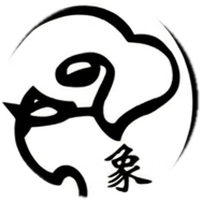
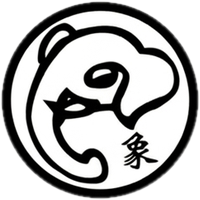
Fix overcropped borders: use full boundary scan, no cell clamping

diff --git a/cut_pieces.py b/cut_pieces.py
@@ -1,19 +1,23 @@
 #!/usr/bin/env python3
 """
-Cut pieces from pieces.png into 200x200 individual PNGs.
+Cut pieces from pieces.png into 200×200 individual PNGs.
 
 Strategy:
-  Each sprite occupies a 256x256 cell but the circle border often extends
-  past the cell edge into neighbouring cells.  We fit the circle using only
-  the arc pixels that are safely inside the cell (>= EDGE_SAFE pixels from
-  each potentially-clipped edge), then sample the full image with an extended
-  window to get the complete bitmap.
+  For each 256×256 sprite cell, scan the outermost dark pixel in every row
+  and column (left / right / top / bottom boundary), fit a circle to those
+  boundary points, then scale and crop so the circle fills the output and
+  apply a circular alpha mask.
+
+  Extraction is taken from the full source image (not clamped to the cell)
+  so that arcs which marginally spill past the cell edge are included.
+  The circular alpha mask then cleanly hides any neighbouring-sprite pixels
+  that fall outside our fitted circle radius.
 
 Layout (4 cols × 4 rows, 256 px each):
-  row 0: red   — elephant, lion, tiger, leopard
-  row 1: red   — wolf, dog, cat, rat
-  row 2: black — elephant, lion, tiger, leopard
-  row 3: black — wolf, dog, cat, rat
+  row 0: red   — elephant, tiger, cat,  wolf
+  row 1: red   — dog,      rat,   leopard, lion
+  row 2: black — elephant, tiger, cat,  wolf
+  row 3: black — dog,      rat,   leopard, lion
 """
 from PIL import Image, ImageDraw, ImageFilter
 import numpy as np
@@ -26,11 +30,10 @@ arr = np.array(p)
 ph, pw = arr.shape[:2]
 SPR = 256
 OUT = 200
+DARK = 90   # pixel brightness below which we call it "dark border"
 
-# (col, row) within the 4x4 grid
 LAYOUT = [
-    # (player, animal, col, row)  — 4 cols × 4 rows, 256 px cells
-    # Row 0 = red top row,   Row 2 = black top row
+    # (player, animal, col, row)
     ('red',   'elephant', 0, 0), ('red',   'tiger',   1, 0),
     ('red',   'cat',      2, 0), ('red',   'wolf',    3, 0),
     ('red',   'dog',      0, 1), ('red',   'rat',     1, 1),
@@ -40,9 +43,6 @@ LAYOUT = [
     ('black', 'dog',      0, 3), ('black', 'rat',     1, 3),
     ('black', 'leopard',  2, 3), ('black', 'lion',    3, 3),
 ]
-
-EDGE_SAFE = 20   # pixels from each edge to trust as "our circle" arc
-DARK_THRESH = 90
 
 
 def fit_circle(xs, ys):
@@ -57,104 +57,47 @@ def fit_circle(xs, ys):
     return cx, cy, r
 
 
-def collect_arc_points(bright, clipped_right, clipped_left, clipped_top, clipped_bot):
-    """
-    Collect boundary arc points from each edge-scan direction,
-    skipping directions where the arc is clipped by the cell boundary.
-    """
-    H, W = bright.shape
-    cols = np.arange(W)
-    rows = np.arange(H)
-    pts = []
-
-    # Left arc (leftmost dark per row) — skip if circle clipped on left
-    if not clipped_left:
-        for row in rows:
-            darks = np.where(bright[row] < DARK_THRESH)[0]
-            if len(darks):
-                pts.append((float(darks[0]), float(row)))
-
-    # Right arc (rightmost dark per row, capped at safe zone) — skip if clipped right
-    if not clipped_right:
-        for row in rows:
-            darks = np.where(bright[row] < DARK_THRESH)[0]
-            if len(darks):
-                pts.append((float(darks[-1]), float(row)))
-    else:
-        # Still use right arc but only trust pixels far from right edge
-        safe = W - EDGE_SAFE
-        for row in rows:
-            darks = np.where((bright[row] < DARK_THRESH) & (cols < safe))[0]
-            if len(darks):
-                pts.append((float(darks[-1]), float(row)))
-
-    # Top arc (topmost dark per col) — skip if clipped on top
-    if not clipped_top:
-        for col in cols:
-            darks = np.where(bright[:, col] < DARK_THRESH)[0]
-            if len(darks):
-                pts.append((float(col), float(darks[0])))
-
-    # Bottom arc (bottommost dark per col) — skip if clipped on bottom
-    if not clipped_bot:
-        for col in cols:
-            darks = np.where(bright[:, col] < DARK_THRESH)[0]
-            if len(darks):
-                pts.append((float(col), float(darks[-1])))
-
-    return np.array(pts) if pts else None
-
-
 for player, animal, sc, sr in LAYOUT:
-    sx, sy = sc * SPR, sr * SPR
+    sx, sy = sc * SPR, sr * SPR   # top-left of sprite cell in full image
+
+    # --- fit circle using border arc from within the cell only ---
     sprite = arr[sy:sy+SPR, sx:sx+SPR, :3].astype(float)
-    bright = sprite.mean(axis=2)
+    bright  = sprite.mean(axis=2)
 
-    # Detect which edges have significant dark-pixel presence (clipped)
-    CLIP_THRESH = 40
-    right_ct = sum(1 for r in range(SPR) if np.any(bright[r, SPR-EDGE_SAFE:] < DARK_THRESH))
-    left_ct  = sum(1 for r in range(SPR) if np.any(bright[r, :EDGE_SAFE] < DARK_THRESH))
-    top_ct   = sum(1 for c in range(SPR) if np.any(bright[:EDGE_SAFE, c] < DARK_THRESH))
-    bot_ct   = sum(1 for c in range(SPR) if np.any(bright[SPR-EDGE_SAFE:, c] < DARK_THRESH))
+    arc_pts = []
+    for row in range(SPR):
+        darks = np.where(bright[row] < DARK)[0]
+        if len(darks):
+            arc_pts.append((float(darks[0]),  float(row)))   # leftmost arc
+            arc_pts.append((float(darks[-1]), float(row)))   # rightmost arc
+    for col in range(SPR):
+        darks = np.where(bright[:, col] < DARK)[0]
+        if len(darks):
+            arc_pts.append((float(col), float(darks[0])))    # topmost arc
+            arc_pts.append((float(col), float(darks[-1])))   # bottommost arc
 
-    clipped_right = right_ct > CLIP_THRESH
-    clipped_left  = left_ct  > CLIP_THRESH
-    clipped_top   = top_ct   > CLIP_THRESH
-    clipped_bot   = bot_ct   > CLIP_THRESH
-
-    pts = collect_arc_points(bright, clipped_right, clipped_left, clipped_top, clipped_bot)
-    if pts is None or len(pts) < 8:
-        print(f"WARNING: {player} {animal} — not enough arc points, falling back")
-        ys_d, xs_d = np.where(bright < DARK_THRESH)
-        pts = np.c_[xs_d.astype(float), ys_d.astype(float)]
-
+    pts = np.array(arc_pts)
     cx_cell, cy_cell, r = fit_circle(pts[:, 0], pts[:, 1])
 
-    clipped_info = (
-        ("R" if clipped_right else "") +
-        ("L" if clipped_left  else "") +
-        ("T" if clipped_top   else "") +
-        ("B" if clipped_bot   else "")
-    )
-    print(f"{player:5} {animal:10}: centre=({cx_cell:.1f},{cy_cell:.1f}) r={r:.1f}  clipped={clipped_info or 'none'}")
+    print(f"{player:5} {animal:10}: cx={cx_cell:6.1f} cy={cy_cell:6.1f} r={r:6.1f}")
 
-    # Extract a padded window from the full image to capture the whole circle.
-    # IMPORTANT: clamp the extraction to the original sprite cell boundary only.
-    # Neighbouring sprites have their own dark circle borders — pulling pixels
-    # beyond the cell boundary causes those borders to appear in our output.
+    # --- extract region from full image, centred on fitted circle ---
+    # Don't clamp to cell so marginally-clipped arcs are captured.
+    # The circular alpha mask will hide any neighbouring-sprite pixels.
     cx_full = sx + cx_cell
     cy_full = sy + cy_cell
-    PAD = 4
-    ex0 = max(sx,        int(cx_full - r) - PAD)
-    ey0 = max(sy,        int(cy_full - r) - PAD)
-    ex1 = min(sx + SPR,  int(cx_full + r) + PAD + 1)
-    ey1 = min(sy + SPR,  int(cy_full + r) + PAD + 1)
+    PAD = 6
+
+    ex0 = max(0,  int(cx_full - r) - PAD)
+    ey0 = max(0,  int(cy_full - r) - PAD)
+    ex1 = min(pw, int(cx_full + r) + PAD + 1)
+    ey1 = min(ph, int(cy_full + r) + PAD + 1)
 
     region = Image.fromarray(arr[ey0:ey1, ex0:ex1]).convert("RGBA")
     rW = ex1 - ex0
     rH = ey1 - ey0
 
-    # Scale so circle fills OUT-4 pixels (2px margin each side)
+    # Scale so the fitted circle fills OUT−4 pixels (2 px margin each side)
     scale = (OUT - 4) / (2 * r)
     sw = max(OUT, int(rW * scale + 0.5))
     sh = max(OUT, int(rH * scale + 0.5))
@@ -165,10 +108,10 @@ for player, animal, sc, sr in LAYOUT:
     scy = (cy_full - ey0) * scale
 
     # Crop OUT×OUT centred on circle
-    crop_l = max(0, int(scx - OUT // 2))
-    crop_t = max(0, int(scy - OUT // 2))
-    crop_l = min(crop_l, max(0, sw - OUT))
-    crop_t = min(crop_t, max(0, sh - OUT))
+    crop_l = int(scx - OUT / 2 + 0.5)
+    crop_t = int(scy - OUT / 2 + 0.5)
+    crop_l = max(0, min(crop_l, sw - OUT))
+    crop_t = max(0, min(crop_t, sh - OUT))
 
     cropped = scaled.crop((crop_l, crop_t, crop_l + OUT, crop_t + OUT)).convert("RGBA")
 
@@ -178,7 +121,6 @@ for player, animal, sc, sr in LAYOUT:
     mask = mask.filter(ImageFilter.GaussianBlur(1))
     cropped.putalpha(mask)
 
-    out_path = f"assets/piece_{player}_{animal}.png"
-    cropped.save(out_path)
+    cropped.save(f"assets/piece_{player}_{animal}.png")
 
 print("\nDone — saved 16 PNGs to assets/")
